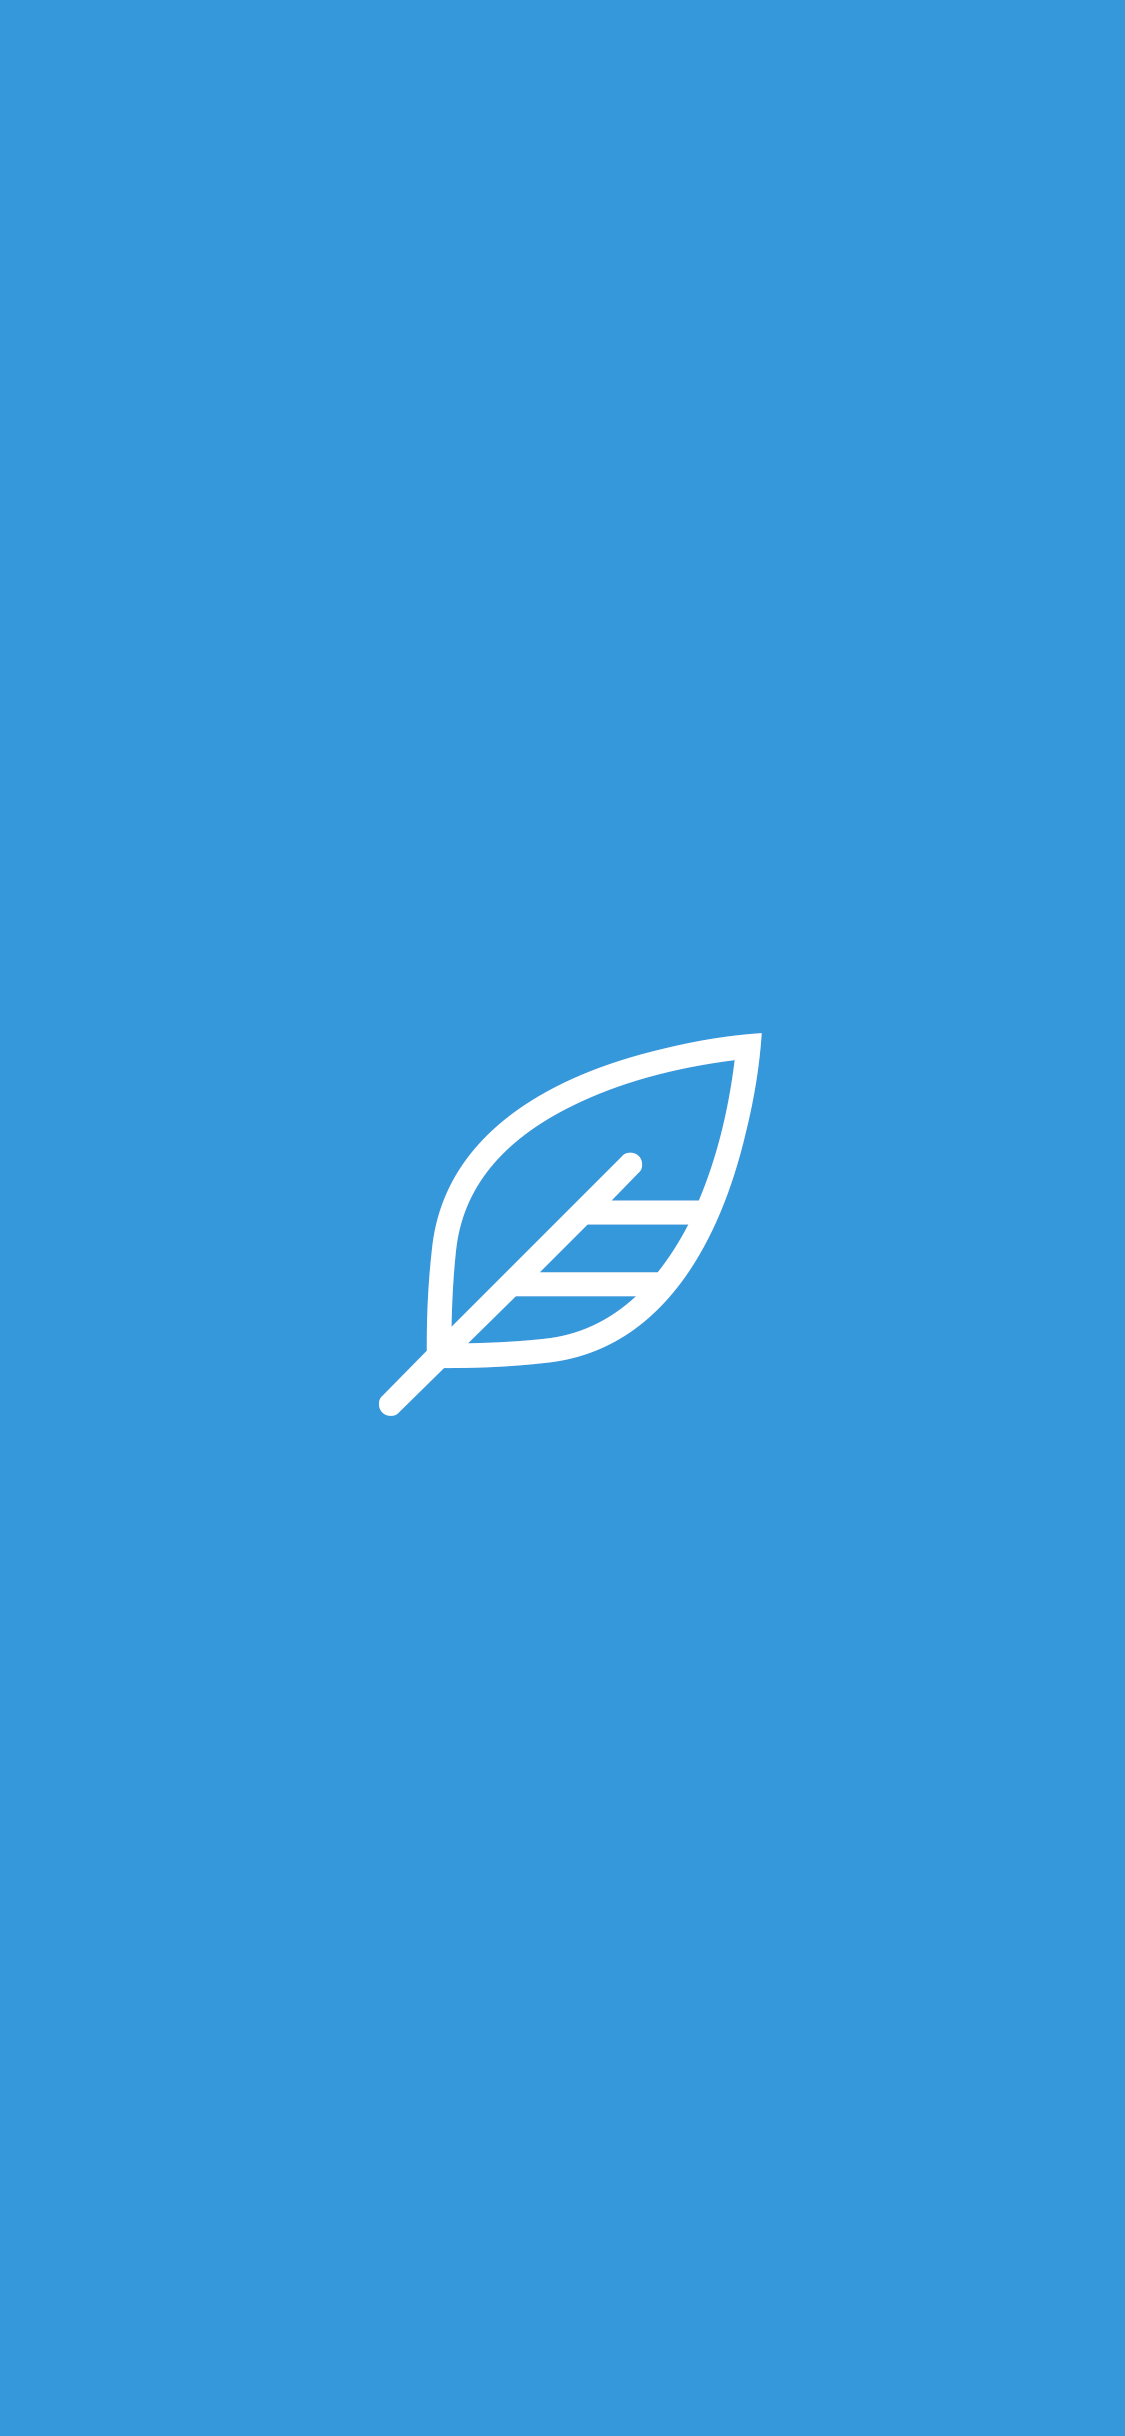
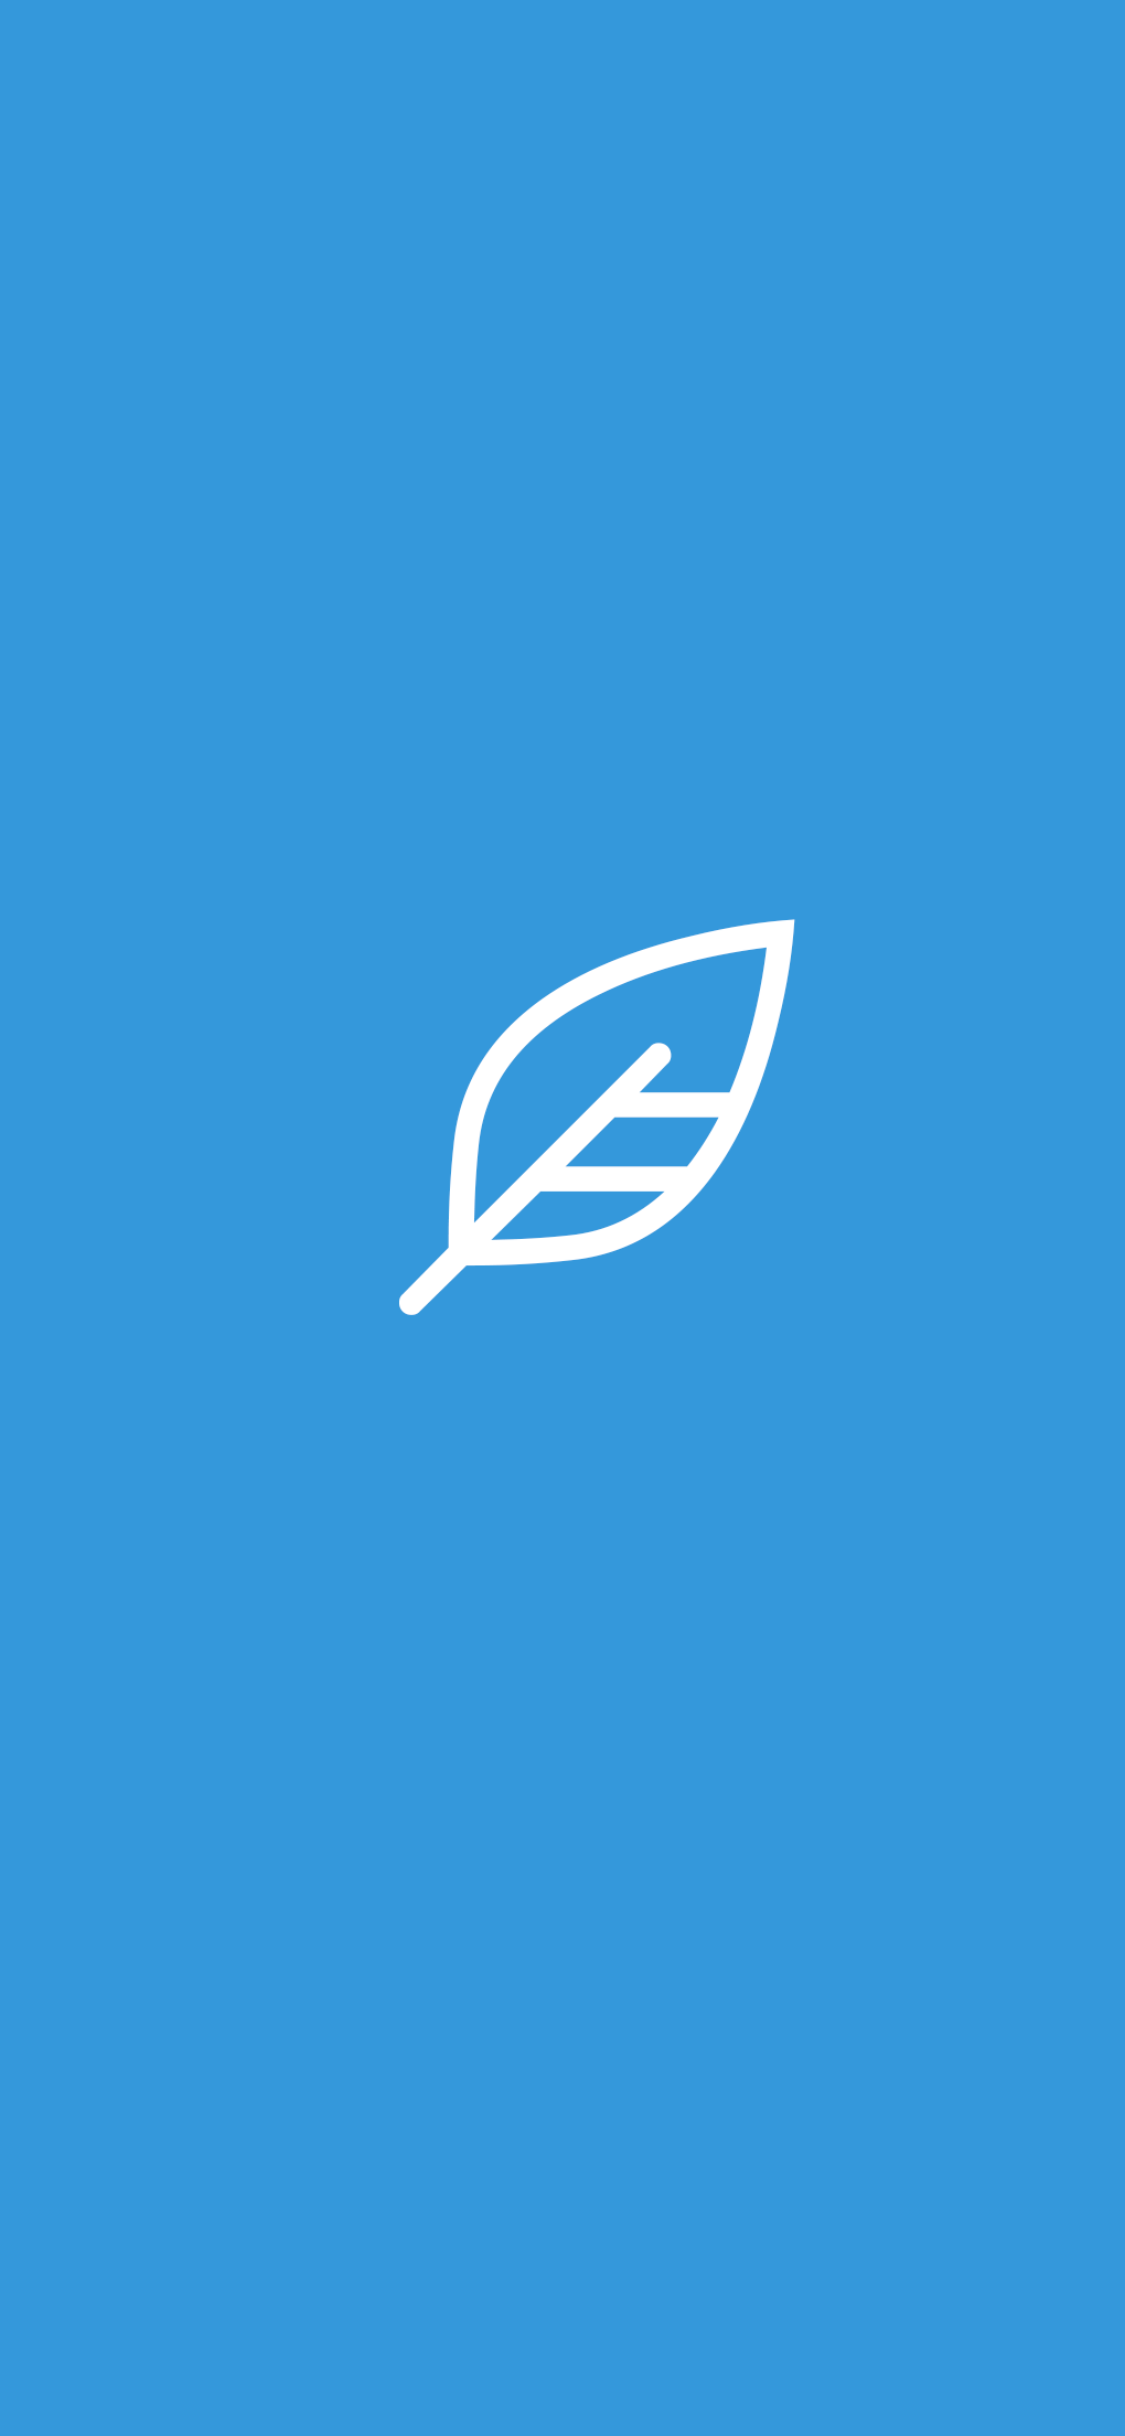
subi imagen para el iphon x 11

Changed region(s): [[0.3422, 0.3744, 0.7156, 0.5928]]

diff --git a/index.html b/index.html
@@ -25,6 +25,14 @@
     <link rel="apple-touch-icon" sizes="180x180" href="img/icons/icon-192x192.png">
     <link rel="apple-touch-icon" sizes="167x167" href="img/icons/icon-152x152.png">
 
+    <!-- iPhone Xs Max (1242px x 2688px) -->
+    <link rel="apple-touch-startup-image"
+        media="(device-width: 414px) and (device-height: 896px) and (-webkit-device-pixel-ratio: 3)"
+        href="img/icons-ios/apple-launch-1242x2688.png">
+    <!-- iPhone Xr (828px x 1792px) -->
+    <link rel="apple-touch-startup-image"
+        media="(device-width: 414px) and (device-height: 896px) and (-webkit-device-pixel-ratio: 2)"
+        href="img/icons-ios/apple-launch-828x1792.png">
     <!-- iPhone X, Xs (1125px x 2436px) -->
     <link rel="apple-touch-startup-image"
         media="(device-width: 375px) and (device-height: 812px) and (-webkit-device-pixel-ratio: 3)"
@@ -32,14 +40,14 @@
     <!-- iPhone 8 Plus, 7 Plus, 6s Plus, 6 Plus (1242px x 2208px) -->
     <link rel="apple-touch-startup-image"
         media="(device-width: 414px) and (device-height: 736px) and (-webkit-device-pixel-ratio: 3)"
-        href="img/icons-ios//apple-launch-1242x2208.png">
+        href="img/icons-ios/apple-launch-1242x2208.png">
     <!-- iPhone 8, 7, 6s, 6 (750px x 1334px) -->
     <link rel="apple-touch-startup-image"
         media="(device-width: 375px) and (device-height: 667px) and (-webkit-device-pixel-ratio: 2)"
         href="img/icons-ios/apple-launch-750x1334.png">
 
-        <meta name="apple-mobile-web-app-status-bar-style" content="black-translucent">
-        <meta name="apple-mobile-web-app-title" content="Portafolio">
+    <meta name="apple-mobile-web-app-status-bar-style" content="black-translucent">
+    <meta name="apple-mobile-web-app-title" content="Portafolio">
 
 </head>
 <body>
